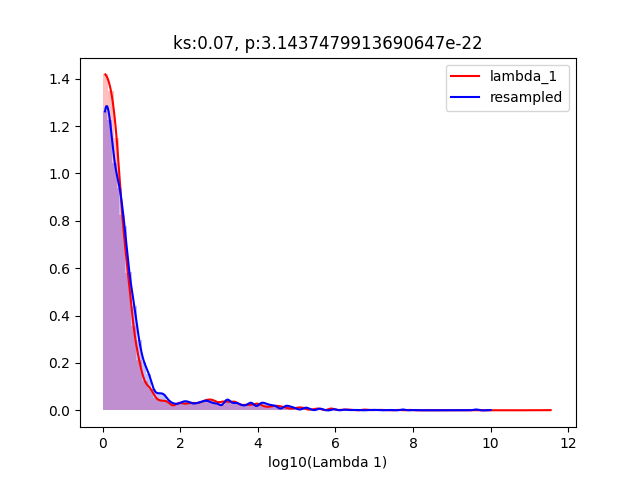
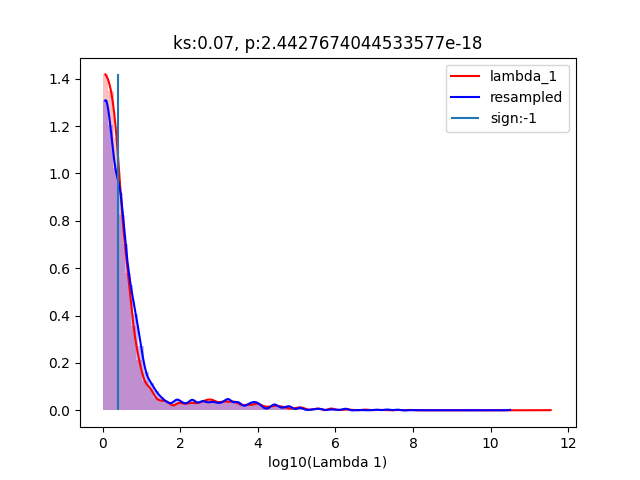
Finding where the ks test goes wrong.

diff --git a/year3/lastStretch/lambdaReflectionStudy/reflectionTests.py b/year3/lastStretch/lambdaReflectionStudy/reflectionTests.py
@@ -2,7 +2,6 @@ import json
 import matplotlib.pyplot as plt
 import numpy as np
 import scipy
-from GWXtreme import eos_model_selection as ems
 import scipy.stats
 from scipy.interpolate import make_interp_spline
 from sklearn.neighbors import KernelDensity
@@ -14,12 +13,14 @@ filename = "../files/NSBH/gw230529_phenom_lowSpin.json"
 with open(filename,"r") as f: data = json.load(f)['posterior']['content']
 
 logq=True
-modsel = ems.Model_selection(filename,kdedim=3,logq=logq) #uncomment later
-margPostData = modsel.margPostData #uncomment later
+load=True
+if load!=True: 
+    from GWXtreme import eos_model_selection as ems
+    modsel = ems.Model_selection(filename,kdedim=3,logq=logq) #uncomment later
+    margPostData = modsel.margPostData #uncomment later
 
 Tag = "q"
-if logq==True:
-    Tag = "logq"
+if logq: Tag = "logq"
 
 def method12():
     # One is simply using the resample logic on GWXtreme
@@ -133,73 +134,72 @@ def twoD_kdeTest():
     plt.savefig("GW170817_LambdaT_test.png")
 
 
-def ksTest(plot=False):
+def ksTest():
     # Use Kolmogorov-Smirnov test to get a quantitative value for the discrepancy
     # between the two histograms for method12.
 
-    Lambda_1 = margPostData[:,0]
-    kde = modsel.kde
-    yhigh = modsel.yhigh
-    logq = modsel.logq
-    logyhigh = modsel.logyhigh
+    if load != True: # Requires older python/scipy version :)
+        Lambda_1 = margPostData[:,0]
+        kde = modsel.kde
+        yhigh = modsel.yhigh
+        logq = modsel.logq
+        logyhigh = modsel.logyhigh
 
-    # logic from get_trials() that gets you "synthetic" data
-    new_margPostData = np.array([])
-    counter = 0
-    while len(new_margPostData) < len(margPostData):
-        prune_adjust_factor = 1.1 + counter/10.
-        N_resample = int(len(margPostData)*prune_adjust_factor)
-        new_margPostData = kde.resample(size=N_resample).T
-        unphysical = (new_margPostData[:, 0] < 0) +\
-                     (new_margPostData[:, 1] > (yhigh if not logq else logyhigh) )
-        if not logq: unphysical + (new_margPostData[:, 1] < 0)
-        else: pass
-        new_margPostData = new_margPostData[~unphysical]
-        counter += 1
-    indices = np.arange(len(new_margPostData))
-    chosen = np.random.choice(indices, len(margPostData))
-    new_margPostData = new_margPostData[chosen]
+        # logic from get_trials() that gets you "synthetic" data
+        new_margPostData = np.array([])
+        counter = 0
+        while len(new_margPostData) < len(margPostData):
+            prune_adjust_factor = 1.1 + counter/10.
+            N_resample = int(len(margPostData)*prune_adjust_factor)
+            new_margPostData = kde.resample(size=N_resample).T
+            unphysical = (new_margPostData[:, 0] < 0) +\
+                         (new_margPostData[:, 1] > (yhigh if not logq else logyhigh) )
+            if not logq: unphysical + (new_margPostData[:, 1] < 0)
+            else: pass
+            new_margPostData = new_margPostData[~unphysical]
+            counter += 1
+        indices = np.arange(len(new_margPostData))
+        chosen = np.random.choice(indices, len(margPostData))
+        new_margPostData = new_margPostData[chosen]
 
-    # parameter we care about for this study
-    resampledLambda1 = new_margPostData[:,0]
+        # parameter we care about for this study
+        resampledLambda1 = new_margPostData[:,0]
+        np.savetxt("resampleL_L_samples.txt",np.array([resampledLambda1,Lambda_1]).T)
 
+    else: # Requires recent python/scipy version :)
+        resampledLambda1, Lambda_1 = np.loadtxt("./resampleL_L_samples.txt").T
+        # Perform ks-test between the distributions' values
+        rawKS = scipy.stats.ks_2samp(resampledLambda1,Lambda_1)
 
-    # Perform ks-test between the distributions' values
-    rawKS = scipy.stats.ks_2samp(resampledLambda1,Lambda_1)
+        # The below would only be necessary for a "homemade" ks-test script
+        # Perform ks-test between the distributions' hist heights
+        histDef, bin_edgesDef = np.histogram(Lambda_1,bins=80,density=True)
+        bin_centDef = (bin_edgesDef[:-1] + bin_edgesDef[1:]) / 2
 
-    # The below would only be necessary for a "homemade" ks-test script
-    # Perform ks-test between the distributions' hist heights
-    histDef, bin_edgesDef = np.histogram(Lambda_1,bins=80,density=True)
-    bin_centDef = (bin_edgesDef[:-1] + bin_edgesDef[1:]) / 2
+        histResamp, bin_edgesResamp = np.histogram(resampledLambda1,bins=80,density=True)
+        bin_centResamp = (bin_edgesResamp[:-1] + bin_edgesResamp[1:]) / 2
 
-    histResamp, bin_edgesResamp = np.histogram(resampledLambda1,bins=80,density=True)
-    bin_centResamp = (bin_edgesResamp[:-1] + bin_edgesResamp[1:]) / 2
+        #histKS = scipy.stats.kstest(histResamp,histDef) # CHECK if ks-test can do hist heights?
+        # PROB NOT
 
-    #histKS = scipy.stats.kstest(histResamp,histDef) # CHECK if ks-test can do hist heights?
-    # PROB NOT
+        # Perform ks-test between the distributions' hists' smoothed out (spline)
+        bin_centDef_smooth = np.linspace(bin_centDef.min(), bin_centDef.max(), 1000)
+        splDef = make_interp_spline(bin_centDef, histDef, k=3) # CHECK what is k?
+        histDef_smooth = splDef(bin_centDef_smooth)
 
-    # Perform ks-test between the distributions' hists' smoothed out (spline)
-    bin_centDef_smooth = np.linspace(bin_centDef.min(), bin_centDef.max(), 1000)
-    splDef = make_interp_spline(bin_centDef, histDef, k=3) # CHECK what is k?
-    histDef_smooth = splDef(bin_centDef_smooth)
+        bin_centResamp_smooth = np.linspace(bin_centResamp.min(), bin_centResamp.max(), 1000)
+        splResamp = make_interp_spline(bin_centResamp, histResamp, k=3)
+        histResamp_smooth = splResamp(bin_centResamp_smooth)
 
-    bin_centResamp_smooth = np.linspace(bin_centResamp.min(), bin_centResamp.max(), 1000)
-    splResamp = make_interp_spline(bin_centResamp, histResamp, k=3)
-    histResamp_smooth = splResamp(bin_centResamp_smooth)
+        #splineKS = scipy.stats.kstest(histResamp_smooth,histDef_smooth) # CHECK if ks-test can do hist splines??
+        # PROB NOT
 
-    #splineKS = scipy.stats.kstest(histResamp_smooth,histDef_smooth) # CHECK if ks-test can do hist splines??
-    # PROB NOT
-
-    print("raw dist ks: {}".format(rawKS))
-    #print("dist hist ks: {}".format(histKS))
-    #print("dist spline ks: {}".format(splineKS))
-
-    if plot:
         plt.clf()
         plt.bar(bin_edgesDef[:-1],histDef,width=np.diff(bin_edgesDef),align='edge',color='red',alpha=0.25)
         plt.bar(bin_edgesResamp[:-1],histResamp,width=np.diff(bin_edgesResamp),align='edge',color='blue',alpha=0.25)
         plt.plot(bin_centDef_smooth,histDef_smooth,color='red',label="lambda_1")
         plt.plot(bin_centResamp_smooth,histResamp_smooth,color='blue',label="resampled")
+        plt.vlines(rawKS.statistic_location,ymin=0,ymax=max([max(histDef),max(histResamp),max(histDef_smooth),max(histResamp_smooth)]),label="sign:{}".format(rawKS.statistic_sign))
         plt.legend()
         plt.xlabel("log10(Lambda 1)")
         plt.title("ks:{:.2f}, p:{}".format(rawKS[0],rawKS[1]))
